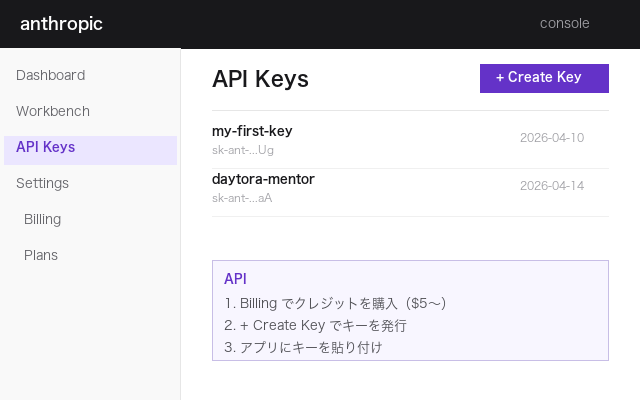
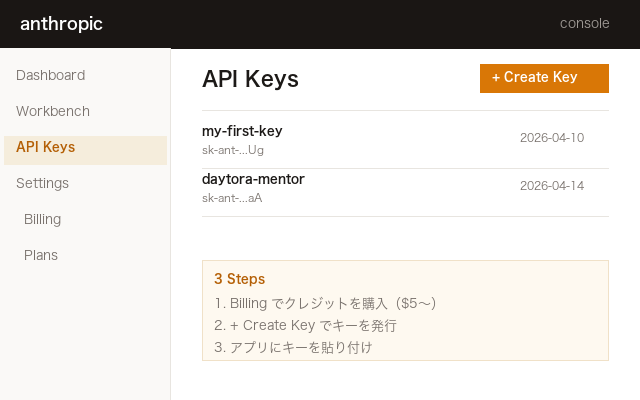
「はじめる前に」レイアウト整理: カード型に統一 + Console画像の配色修正

diff --git a/docs/index.html b/docs/index.html
@@ -441,38 +441,42 @@
       <h2 class="section-title">はじめる前に</h2>
 
       <!-- 1. Gatekeeper -->
-      <div style="display: flex; gap: 32px; align-items: flex-start; flex-wrap: wrap; margin-bottom: 48px;">
-        <img src="assets/gatekeeper-warning.png" alt="macOS警告ダイアログ" style="width: 220px; border-radius: 12px; border: 1px solid rgba(0,0,0,0.1); box-shadow: rgba(0,0,0,0.04) 0px 4px 18px;">
-        <div style="flex: 1; min-width: 280px;">
-          <h3 style="font-size: 18px; font-weight: 700; margin-bottom: 12px;">初回起動時の警告について</h3>
-          <p style="font-size: 15px; color: var(--color-text-secondary); line-height: 1.7; margin-bottom: 16px;">
-            初回起動時にこの警告が表示されますが、Apple認証（公証）を受けていないアプリのため表示されるものです。以下の手順で開けます。
-          </p>
-          <ol style="font-size: 14px; color: var(--color-text-secondary); line-height: 2; padding-left: 20px;">
-            <li>「<strong>完了</strong>」をクリック（ゴミ箱に入れない）</li>
-            <li><strong>システム設定</strong> → <strong>プライバシーとセキュリティ</strong> を開く</li>
-            <li>下にスクロールして「<strong>このまま開く</strong>」をクリック</li>
-          </ol>
-          <p style="font-size: 13px; color: var(--color-text-muted); margin-top: 12px;">※ この操作は初回のみです。2回目以降は通常通り起動できます。</p>
+      <div style="background: #fff; border: 1px solid rgba(0,0,0,0.1); border-radius: 16px; padding: 28px; margin-bottom: 24px; box-shadow: rgba(0,0,0,0.04) 0px 4px 18px;">
+        <div style="display: flex; gap: 28px; align-items: center; flex-wrap: wrap;">
+          <img src="assets/gatekeeper-warning.png" alt="macOS警告ダイアログ" style="width: 180px; border-radius: 8px;">
+          <div style="flex: 1; min-width: 260px;">
+            <h3 style="font-size: 17px; font-weight: 700; margin-bottom: 10px;">初回起動時の警告について</h3>
+            <p style="font-size: 14px; color: var(--color-text-secondary); line-height: 1.7; margin-bottom: 12px;">
+              Apple認証を受けていないアプリのため、初回にこの警告が出ます。
+            </p>
+            <ol style="font-size: 13px; color: var(--color-text-secondary); line-height: 2; padding-left: 18px; margin: 0;">
+              <li>「<strong>完了</strong>」をクリック（ゴミ箱に入れない）</li>
+              <li><strong>システム設定 → プライバシーとセキュリティ</strong> を開く</li>
+              <li>「<strong>このまま開く</strong>」をクリック</li>
+            </ol>
+            <p style="font-size: 12px; color: var(--color-text-muted); margin-top: 8px;">※ 初回のみ。2回目以降は通常通り起動できます。</p>
+          </div>
         </div>
       </div>
 
       <!-- 2. API Key -->
-      <div style="display: flex; gap: 32px; align-items: flex-start; flex-wrap: wrap;">
-        <img src="assets/api-key-guide.png" alt="APIキー取得画面" style="width: 320px; border-radius: 12px; border: 1px solid rgba(0,0,0,0.1); box-shadow: rgba(0,0,0,0.04) 0px 4px 18px;">
-        <div style="flex: 1; min-width: 280px;">
-          <h3 style="font-size: 18px; font-weight: 700; margin-bottom: 12px;">Claude APIキーの取得</h3>
-          <p style="font-size: 15px; color: var(--color-text-secondary); line-height: 1.7; margin-bottom: 16px;">
-            このアプリはAI（Claude）を利用するため、APIキーとクレジットの購入が必要です。従量課金制で、1回の質問あたり約1〜3円程度。毎日100回質問しても1日100〜300円程度です。
-          </p>
-          <ol style="font-size: 14px; color: var(--color-text-secondary); line-height: 2; padding-left: 20px;">
-            <li><a href="https://console.anthropic.com" target="_blank" rel="noopener" style="color: var(--color-accent); text-decoration: none; font-weight: 500;">Anthropic Console</a> でアカウントを作成</li>
-            <li><strong>Settings → Billing</strong> でクレジットを購入（$5〜）</li>
-            <li><strong>Settings → API Keys</strong> でキーを発行</li>
-            <li>アプリにキーを入力</li>
-          </ol>
-          <p style="font-size: 13px; color: var(--color-text-muted); margin-top: 12px;">キーはお使いのMacのアプリ内にのみ保存され、外部に送信されることはありません。</p>
-          <a href="https://docs.anthropic.com/en/docs/initial-setup" target="_blank" rel="noopener" style="display: inline-block; margin-top: 8px;">公式セットアップガイド →</a>
+      <div style="background: #fff; border: 1px solid rgba(0,0,0,0.1); border-radius: 16px; padding: 28px; box-shadow: rgba(0,0,0,0.04) 0px 4px 18px;">
+        <div style="display: flex; gap: 28px; align-items: center; flex-wrap: wrap;">
+          <img src="assets/api-key-guide.png" alt="APIキー取得画面" style="width: 280px; border-radius: 8px;">
+          <div style="flex: 1; min-width: 260px;">
+            <h3 style="font-size: 17px; font-weight: 700; margin-bottom: 10px;">Claude APIキーの取得</h3>
+            <p style="font-size: 14px; color: var(--color-text-secondary); line-height: 1.7; margin-bottom: 12px;">
+              AI（Claude）を利用するため、APIキーとクレジットの購入が必要です。<br>従量課金制で、1回の質問あたり約1〜3円。毎日100回使っても1日100〜300円程度です。
+            </p>
+            <ol style="font-size: 13px; color: var(--color-text-secondary); line-height: 2; padding-left: 18px; margin: 0;">
+              <li><a href="https://console.anthropic.com" target="_blank" rel="noopener" style="color: var(--color-accent); text-decoration: none; font-weight: 500;">Anthropic Console</a> でアカウント作成</li>
+              <li><strong>Settings → Billing</strong> でクレジット購入（$5〜）</li>
+              <li><strong>Settings → API Keys</strong> でキー発行</li>
+              <li>アプリにキーを入力</li>
+            </ol>
+            <p style="font-size: 12px; color: var(--color-text-muted); margin-top: 8px;">キーはMacのアプリ内にのみ保存され、外部に送信されません。</p>
+            <a href="https://docs.anthropic.com/en/docs/initial-setup" target="_blank" rel="noopener" style="display: inline-block; margin-top: 8px; font-size: 13px;">APIキー取得の詳しい手順 →</a>
+          </div>
         </div>
       </div>
     </div>
